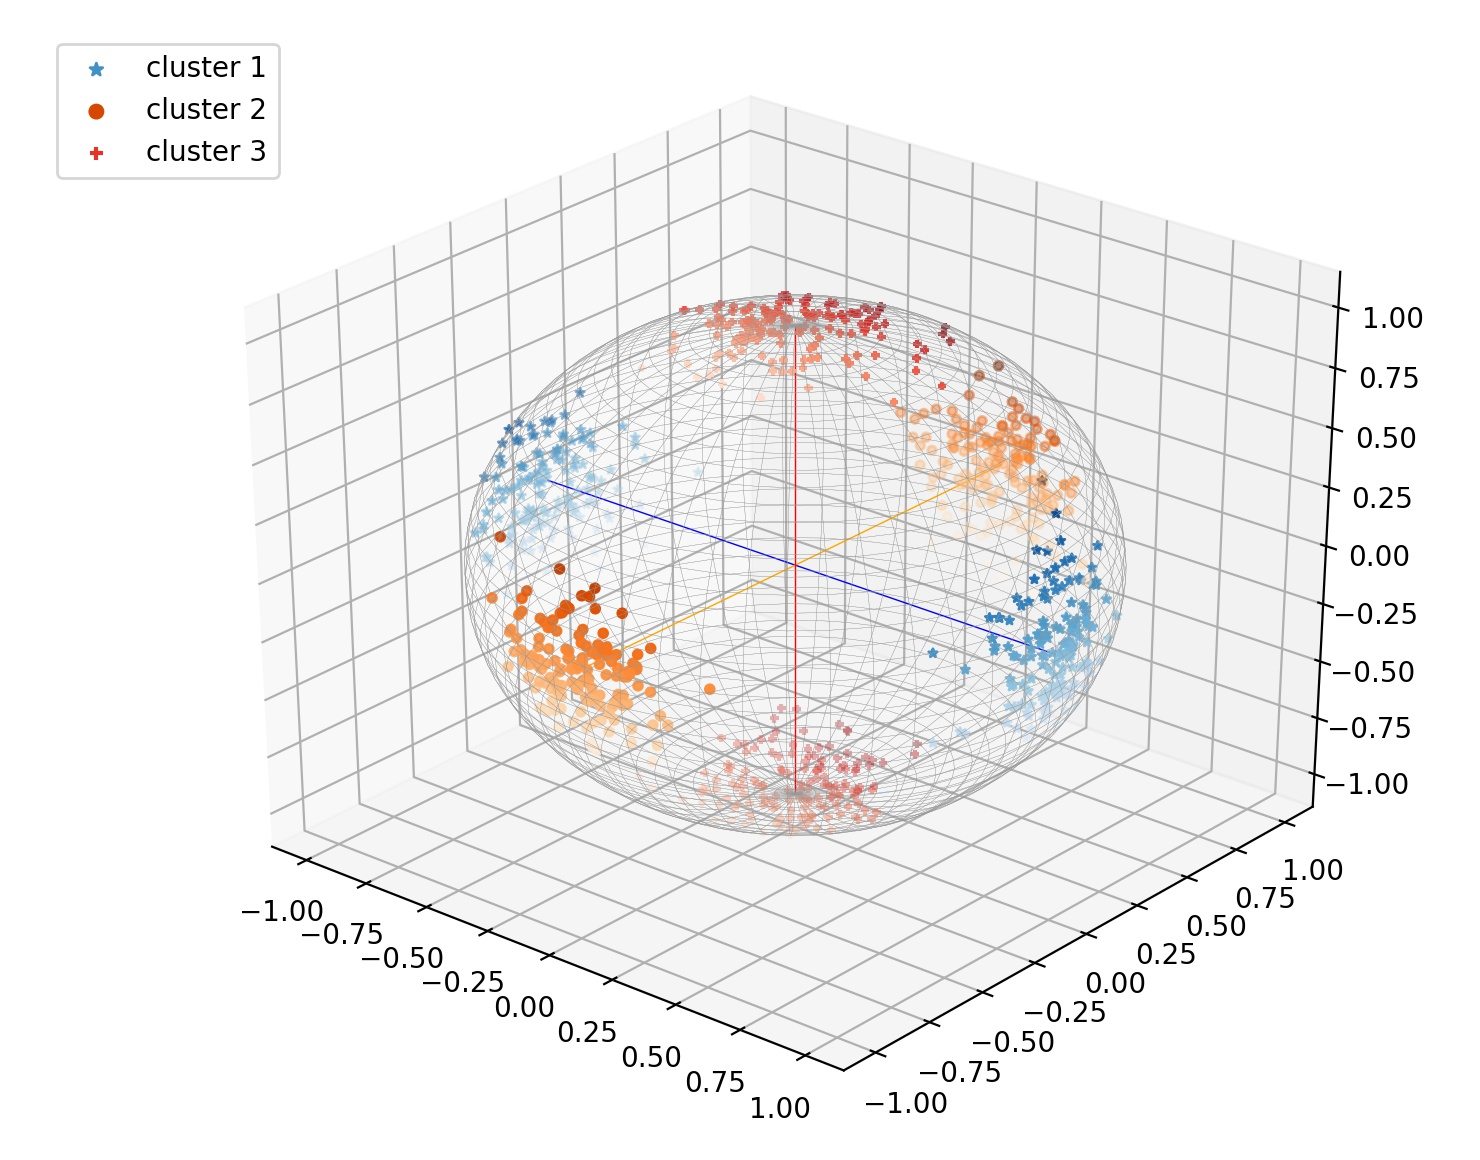
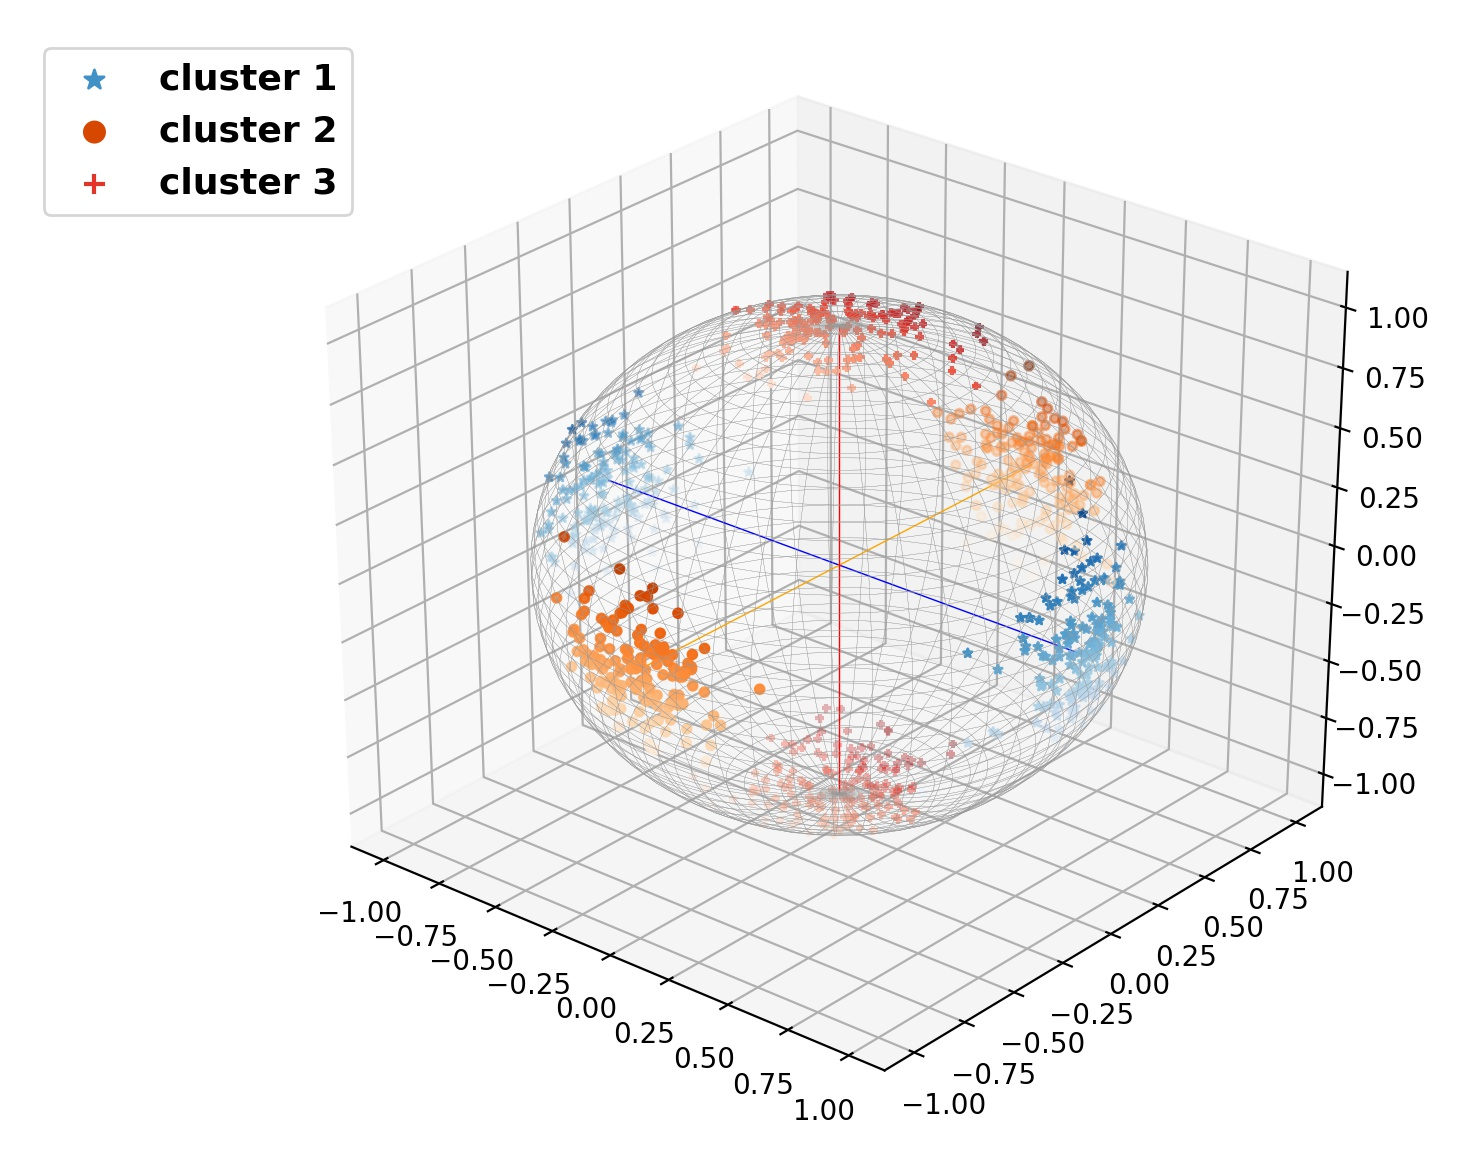
modify fig styles

Changed region(s): [[0.1865, 0.0931, 0.9635, 0.9621], [0.0311, 0.031, 0.2486, 0.1862]]

diff --git a/plot.py b/plot.py
@@ -92,8 +92,8 @@ def plot_number_cluster(save=False):
     x_major_locator = MultipleLocator(1)
     y_major_locator = MultipleLocator(100)
     ax = plt.gca()
-    ax.plot(ca_num, '-s', ms=6, alpha=1, mfc='blue', label='CDP-WMM')
-    ax.plot(w_num, '-d', c='black', ms=6, alpha=1, mfc='black', label='L-WMM')
+    ax.plot(ca_num, '-s', ms=6, alpha=1, mfc='blue', label='Co-InWMM')
+    ax.plot(w_num, '-d', c='black', ms=6, alpha=1, mfc='black', label='WMM')
     ax.xaxis.set_major_locator(x_major_locator)
     ax.yaxis.set_major_locator(y_major_locator)
     plt.xlim(-0.5, 10.5)
@@ -101,7 +101,10 @@ def plot_number_cluster(save=False):
     plt.xlabel('Number of components', fontsize=14)
     plt.ylabel('Number of images', fontsize=14)
 
-    plt.legend()
+    plt.legend(fontsize=13, markerscale=1.5)
+    leg = ax.get_legend()
+    ltext = leg.get_texts()
+    plt.setp(ltext, fontweight='bold')
 
     if save:
         plt.savefig('{}/fig/category_fig.eps'.format(RESULT_DIR), dpi=200, format='eps')
@@ -148,8 +151,7 @@ def plot_3d(dataset='syn_data1', save=False):
         ax.scatter3D(third[:, 2], third[:, 1], third[:, 0], c=third[:, 1], s=10, cmap='Reds', label='cluster 3', marker='+')
         gca.plot([0, av_t[0]], [0, av_t[1]], [0, av_t[2]], c='r', linewidth=0.5)
         gca.plot([0, av_t[0]], [0, av_t[1]], [0, -av_t[2]], c='r', linewidth=0.5)
-        ax.legend(bbox_to_anchor=(0.14, 1), markerscale=1.5)
-
+        ax.legend(bbox_to_anchor=(0.14, 1), markerscale=2.3, fontsize=13)
         # ax.legend(bbox_to_anchor=(0.81, 1.03), markerscale=1.3, fontsize=13)
     # big_data
     else:
@@ -177,13 +179,15 @@ def plot_3d(dataset='syn_data1', save=False):
         ax.scatter3D(four[:, 0], four[:, 1], four[:, 2], c=four[:, 1], s=10, cmap='Greens', label='cluster 4', marker='o')
         gca.plot([0, av_fo[0]], [0, av_fo[1]], [0, av_fo[2]], c='r', linewidth=0.5)
         gca.plot([0, -av_fo[0]], [0, -av_fo[1]], [0, -av_fo[2]], c='r', linewidth=0.5)
-        ax.legend(bbox_to_anchor=(0.14, 0.95), markerscale=1.5)
-
+        ax.legend(bbox_to_anchor=(0.15, 0.95), markerscale=2.3, fontsize=13)
         # ax.legend(bbox_to_anchor=(0.81 / 0.83, 1.03), markerscale=1.3, fontsize=13)
 
+    leg = ax.get_legend()
+    ltext = leg.get_texts()
+    plt.setp(ltext, fontweight='bold')
     plt.show()
     if save:
-        fig.savefig('./result/{}_fig.jpg'.format(dataset), dpi=200)
+        fig.savefig('./result/fig/{}_fig.jpg'.format(dataset), dpi=200)
 
 
 def get_ellipse(e_x, e_y, a, b, e_angle):
@@ -238,7 +242,7 @@ def change_png2eps(root='./result/figures'):
         plt.imsave('{}/test_{}.eps'.format(root, f_name), img, format='eps', dpi=500)
 
 # plot_number_cluster(save=True)
-# plot_3d('syn_data1', save=True)
+# plot_3d('syn_data2', save=True)
 # plot_eplipse_result()
 # change_png2eps()
 
